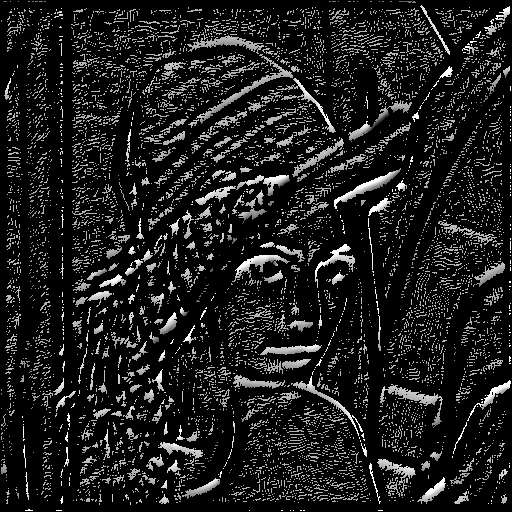
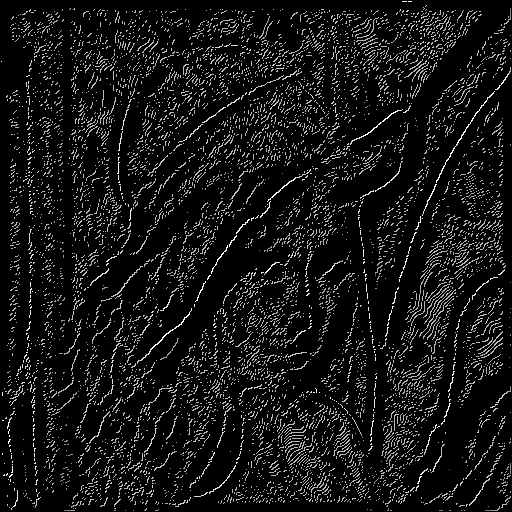
Update so andrew can take a peak

Changed region(s): [[0.0, 0.0, 1.0, 1.0]]

diff --git a/src/qr_location.rs b/src/qr_location.rs
@@ -3,13 +3,39 @@ use std::vec;
 use image::{self, GenericImageView, GrayImage, Luma, Pixel};
 use oxidized_image_processing::{conv_2d, Kernel};
 
+#[derive(Default, Clone)]
+pub struct PixelGradientInfo {
+    gx: u8,
+    gy: u8,
+    mag: f32,
+    angle: f32
+}
+
+impl PixelGradientInfo {
+    pub fn new(gx: u8, gy: u8) -> PixelGradientInfo{
+
+        let mut magnitude_gradient =
+        f32::sqrt(f32::powf(gx as f32, 2.0) + f32::powf(gy as f32, 2.0));
+        //Try scaling the mag, this is a lazy solution
+        //magnitude_gradient = magnitude_gradient*255.0/361.0;
+
+        let angle_gradient = (gy as f32).atan2(gx as f32);
+        PixelGradientInfo { gx: gx, gy: gy, mag: magnitude_gradient, angle: angle_gradient }    
+    }
+}
+
+pub struct EdgeLine {
+    name: String, //This will be interpretation of the name of each direction of edges not the name of the normal of the direction
+    adjacent1: (i32, i32), //first adjacent pixel in the direction of the edge normal
+    adjacent2: (i32, i32) //second adjancent pixel in the direction of the edge normal
+}
+
 //Bias here will be promising points that are slightly better than just plain edges
 pub fn finder_mark_location(bias: Vec<(usize, usize)>, image: GrayImage) -> (usize, usize) {
     return (0, 0);
 }
 
-pub fn gradient_image_content(image: &GrayImage) -> Vec<(f32, f32)> {
-    //This is incorrect atm because it does not return the same size image
+pub fn gradient_image_content(image: &GrayImage) -> Vec<PixelGradientInfo> {
     let second_der_x_dir = conv_2d(&Kernel::sobel_x_dir(), image, true);
     let second_der_y_dir = conv_2d(&Kernel::sobel_y_dir(), image, true);
 
@@ -18,7 +44,7 @@ pub fn gradient_image_content(image: &GrayImage) -> Vec<(f32, f32)> {
 
     let (cols, rows) = second_der_x_dir.dimensions();
 
-    let mut result = vec![(0.0, 0.0); (rows * cols) as usize];
+    let mut result = vec![PixelGradientInfo{..Default::default()}; (rows * cols) as usize];
 
     for row in 0..rows {
         for col in 0..cols {
@@ -32,20 +58,11 @@ pub fn gradient_image_content(image: &GrayImage) -> Vec<(f32, f32)> {
                 .channels()
                 .get(0)
                 .unwrap();
-            let magnitude_gradient =
-                f32::sqrt(f32::powf(gx as f32, 2.0) + (f32::powf(gy as f32, 2.0)));
-            let angle_gradient = (gy as f32).atan2(gx as f32);
-            result[(col+(row*rows)) as usize] = (magnitude_gradient, angle_gradient);
+            result[(col+(row*rows)) as usize] = PixelGradientInfo::new(gx, gy);
         }
     }
 
     return result;
-}
-
-pub struct EdgeLine {
-    name: String, //This will be interpretation of the name of each direction of edges not the name of the normal of the direction
-    adjacent1: (i32, i32), //first adjacent pixel in the direction of the edge normal
-    adjacent2: (i32, i32) //second adjancent pixel in the direction of the edge normal
 }
 
 pub fn normal_to_direction(angle: f32) -> EdgeLine {
@@ -57,7 +74,7 @@ pub fn normal_to_direction(angle: f32) -> EdgeLine {
         direction
             //pi/8 .. 3pi/8
             if (std::f32::consts::FRAC_PI_8 ..= std::f32::consts::FRAC_PI_8 * 3.0)
-                .contains(&angle) => EdgeLine{name: "neg_45_edge".to_owned(), adjacent1: (1, 1), adjacent2: (-1, 1)},
+                .contains(&angle) => EdgeLine{name: "neg_45_edge".to_owned(), adjacent1: (1, 1), adjacent2: (-1, -1)},
         direction 
             //3pi/8 .. 5pi/8
             if (std::f32::consts::FRAC_PI_8 * 3.0 ..= std::f32::consts::FRAC_PI_8 * 5.0)
@@ -74,7 +91,7 @@ pub fn normal_to_direction(angle: f32) -> EdgeLine {
         direction
             //-7pi/8 .. -5pi/8
             if (-std::f32::consts::FRAC_PI_8 * 7.0 ..= -std::f32::consts::FRAC_PI_8 * 5.0)
-                .contains(&angle) => EdgeLine{name: "neg_45_edge".to_owned(), adjacent1: (1, 1), adjacent2: (-1, 1)},
+                .contains(&angle) => EdgeLine{name: "neg_45_edge".to_owned(), adjacent1: (1, 1), adjacent2: (-1, -1)},
         direction 
             //-5pi/8 .. -3pi/8
             if (-std::f32::consts::FRAC_PI_8 * 5.0 ..= -std::f32::consts::FRAC_PI_8 * 3.0)
@@ -89,37 +106,42 @@ pub fn normal_to_direction(angle: f32) -> EdgeLine {
 }
 
 //This is certainly wrong 
-pub fn non_maxima_suppression(gradient_info: Vec<(f32, f32)>, cols: u32, rows: u32) -> GrayImage{
+pub fn non_maxima_suppression(gradient_info: Vec<PixelGradientInfo>, cols: u32, rows: u32) -> (GrayImage, GrayImage){
     let mut result = GrayImage::new(cols, rows);
-
+    let mut mag_image = GrayImage::new(cols, rows);
     //I think this is correct, where I ignore the outermost border of pixels
     for row in 1..rows-1 {
         for col in 1..cols-1 {
-            let (mag, angle) = gradient_info[(col+(row*rows)) as usize];
-            let direction = normal_to_direction(angle);
+            let pixel_info = &gradient_info[(col+(row*rows)) as usize];
+            let normal_line = normal_to_direction(pixel_info.angle);
 
-            if mag > gradient_info[ ((col as i32 + direction.adjacent1.0) + (row as i32 + direction.adjacent1.1)*rows as i32) as usize].0 
-            && mag > gradient_info[ ((col as i32 + direction.adjacent2.0) + (row as i32 + direction.adjacent1.1)*rows as i32) as usize].0 {
-                let pixel = Luma([mag as u8]);
+            //println!("row: {}| col: {} | mag: {}| angle: {}| adjacent1: {:?}| adjacent2: {:?}| name: {}", row, col, pixel_info.mag, pixel_info.angle, normal_line.adjacent1, normal_line.adjacent2, normal_line.name);
+
+            if pixel_info.mag > gradient_info[ ((col as i32 + normal_line.adjacent1.0) + (row as i32 + normal_line.adjacent1.1)*rows as i32) as usize].mag
+            && pixel_info.mag > gradient_info[ ((col as i32 + normal_line.adjacent2.0) + (row as i32 + normal_line.adjacent2.1)*rows as i32) as usize].mag {
+                let pixel = Luma([pixel_info.mag as u8]);
                 result.put_pixel(col as u32, row as u32, pixel);
             }
+            let pixel = Luma([pixel_info.mag as u8]);
+            mag_image.put_pixel(col as u32, row as u32, pixel);
         }
     }
 
-    return result;
+    return (result, mag_image);
 }
 
 pub fn canny_edge_detector(image: &GrayImage) -> GrayImage {
     //This is incorrect atm because it does not return the same size image
-    let smoothed_image = conv_2d(&Kernel::gaussian_2d(3.0), image, true);
+    let smoothed_image = conv_2d(&Kernel::gaussian_2d(4.0), image, true);
     smoothed_image.save("smoothed_image.png");
 
     let smoothed_gradient = gradient_image_content(&smoothed_image);
     let (cols, rows) = smoothed_image.dimensions();
 
-    let nom_maxima_suppressed_image = non_maxima_suppression(smoothed_gradient, cols, rows);
+    let (non_maxima_suppressed_image, mag_gradient_image) = non_maxima_suppression(smoothed_gradient, cols, rows);
+    mag_gradient_image.save("mag_gradient_image.png");
 
-    return nom_maxima_suppressed_image;
+    return non_maxima_suppressed_image;
 }
 
 //This will take the result of the above. Maybe will return the vector of biased points that I can use to find the locator marks

diff --git a/src/otsu.rs b/src/otsu.rs
@@ -23,9 +23,6 @@ fn make_grayhistrogram(image: &GrayImage) -> GrayHistogram {
         .enumerate()
         .for_each(|(i, x)| *x = *x + (histogram[i] as f32 / sum as f32));
 
-    // println!("histogram: {:?}", histogram);
-    // println!("probabilities: {:?}", probabilities);
-
     GrayHistogram {
         histogram,
         probabilities,
@@ -76,13 +73,6 @@ pub fn otsu_threshold(image: &GrayImage) -> usize {
         }
     }
 
-    //println!("q1: {:?}", probabilities_class1);
-    //println!("m1: {:?}", mean_intensities_class1);
-    //println!("mq: {:?}", global_mean_intensity);
-    //println!("sigmab: {:?}", between_class_var);
-
-    //return max(between_class_var);
-    //return between_class_var.iter().max().unwrap;
     return k_star;
 }
 
